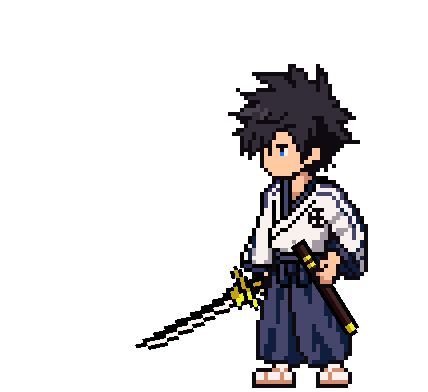
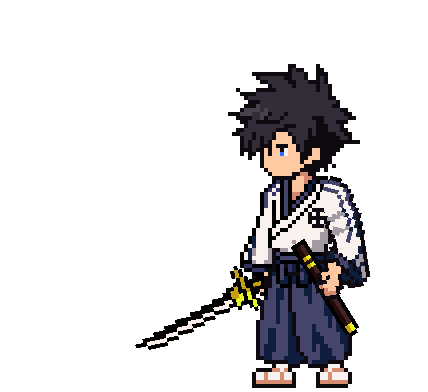
C.151 종이인형: 뒷머리 찰랑거림(hair_back 뼈), 편집 중이던 남학생 값 반영
Claude-Session: https://claude.ai/code/session_011W8zFEjKADtTYyQZXReU7r

Changed region(s): [[0.729, 0.4286, 0.8808, 0.7653]]

diff --git a/tests/paperdoll.test.ts b/tests/paperdoll.test.ts
@@ -191,6 +191,16 @@ describe('자세·행렬', () => {
     const b = boneMatrices(rig, {}, 'bare').forearm_R!;
     expect(a[0]).not.toBeCloseTo(b[0]);
   });
+  it('뒷머리: 머리에 붙은 따로 뼈라 모든 동작에서 찰랑거린다(걷기는 반복 이음매가 맞다)', () => {
+    expect(HUMANOID.bones.find((b) => b.id === 'hair_back')!.parent).toBe('head');
+    expect(HUMANOID.slots.find((s) => s.id === 'hair_back')!.bone).toBe('hair_back');
+    for (const [id, m] of Object.entries(MOTIONS)) {
+      const k = m.tracks.hair_back;
+      expect(k, id).toBeTruthy();
+      expect(Math.max(...k!.map((x) => Math.abs(x[1]))), id).toBeGreaterThan(0);
+      if (m.loop) expect(k![0]![1], id).toBe(k![k!.length - 1]![1]);
+    }
+  });
   it('칼집: 허리춤(몸통)에 차고 있고 손(앞팔)에 붙지 않는다, 칼 그림과 다른 빈 칼집', () => {
     const sc = HUMANOID.bones.find((b) => b.id === 'scabbard')!;
     expect(sc.parent).toBe('torso');

diff --git a/docs/GDD.md b/docs/GDD.md
@@ -3965,5 +3965,6 @@ data/
    - 고침: `humanoid.json` `bodyJoints.<몸>` = 그 몸만의 관절 자리(pivots)·기본 각도(rot, 쉬는 각도에 더함). 없으면 bones 값. 편집기에서 관절을 옮기거나 기본 각도를 바꾸면 고른 외형의 몸에만 들어간다. 게임·시험 페이지·정지 그림·가이드도 몸별 관절로 그린다.
    - 편집 중이던 오른 어깨 (22,32)·팔꿈치 (29,41)는 여성형을 고치던 중이라(여성형 아래팔 자리도 같이 바뀜) 여성형에만 넣고, 나머지 몸은 원래 (24,33)·(32,41)로 되돌림.
    - 편집기: '관절 기본 각도'(−180~180°, ±1° 버튼, 저장됨) 추가. 시험 회전은 저장 안 됨.
+34. **뒷머리 찰랑거림 (사용자 2026-10-29 원문 "뒷머리에도 움직임 추가해. 긴머림면 찰랑찰랑 거리게.")**: 뒷머리 = 머리(head)에 붙은 따로 뼈 `hair_back`(관절 = 묶은 자리 (26,11)). 동작마다 늦게 따라 흔들린다: 대기 +3~-2°, 걷기 걸음마다 0~-10°(뒤로 날림), 공격1·2 젖힐 때 +6° → 칠 때 -10° → +5°, 특수1 ±4°, 특수2 반동 때 +8°, 맞음 +10°. 뒷머리가 없는 외형은 변화 없음. 관절 자리는 편집기에서 몸마다 옮길 수 있다.
 - **구현 (C.151)**: `src/data/art/rig/pose.ts`(자세 뽑기·뼈 행렬·외형 층·데이터 점검), `src/ui/bha/paperdoll.ts`(그리기 + 동작 시계: 반복 동작, 한 번 동작 후 복귀, 타격 콜백), `room.css` `.bha-doll`. 시험 테스트 `tests/paperdoll.test.ts`. 게임 화면에는 아직 안 붙였다.
 

diff --git a/docs/dev-log.md b/docs/dev-log.md
@@ -1426,6 +1426,7 @@ C.0 ~ C.59 는 `docs/dev-log-archive.md` 로 옮겼다(2026-10-20, 사용량 절
 - 알몸(몸통)·여성형(몸통·오른 위팔) 손질 반영.
 - 몸별 관절·기본 각도(`bodyJoints`, `bodyBones()`), 편집기 기본 각도 조절(GDD 96장 33).
 - 여성형 오른 위팔 손질 반영 + 편집기에서 맞추던 여성형 값(오른 아래팔 자리 (19,38), 기본 각도 어깨 +10°·팔꿈치 -15°) 같이 넣음 — 다시 올리면 편집기가 데이터 값으로 새로 시작해서 그대로 두면 사라지므로.
-- **테스트** `tests/paperdoll.test.ts` 29개(부위 그림 크기 = 파일 크기 확인 추가, `tests/helpers/pngSize.ts`).
+- 뒷머리 찰랑거림(뼈 `hair_back`, 모든 동작)(GDD 96장 34). 편집 중이던 남학생 값(오른 위·아래팔 자리, 어깨 관절 (24,34), 어깨 +15°·팔꿈치 -24°)도 같이 넣음.
+- **테스트** `tests/paperdoll.test.ts` 30개(부위 그림 크기 = 파일 크기 확인 추가, `tests/helpers/pngSize.ts`).
 - 이 브랜치에 있던 옛 홈 물건 32칸 작업(C.113 번호, main 에 안 들어감)은 main 쪽으로 되돌렸다. 도구 `scripts/depixel/`(도트 되돌리기·긴 쪽 N칸·색 수 제한·재질 2톤·줄 밀기)·`scripts/sprite-rig/`(옛 시험)는 남김.
 
